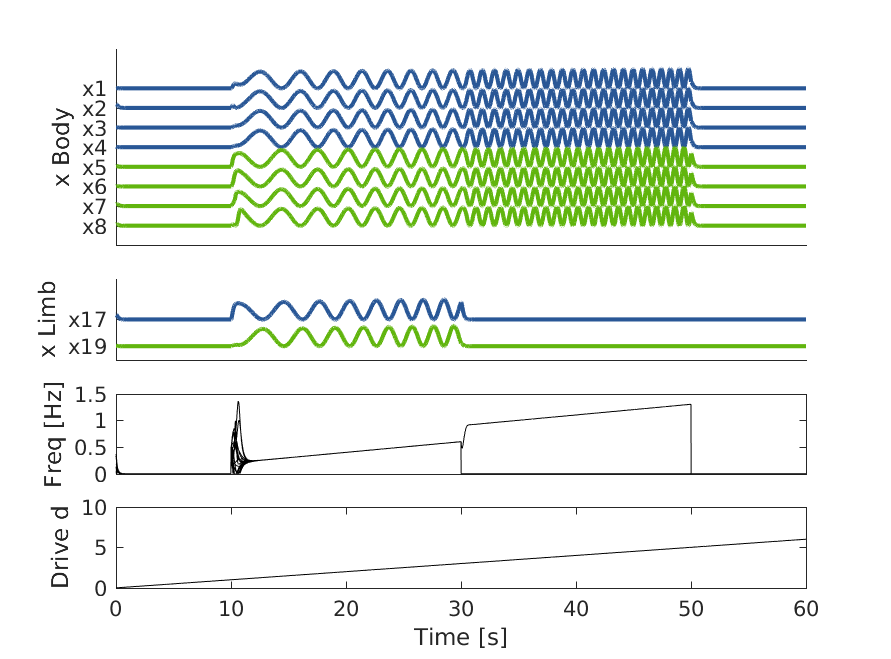
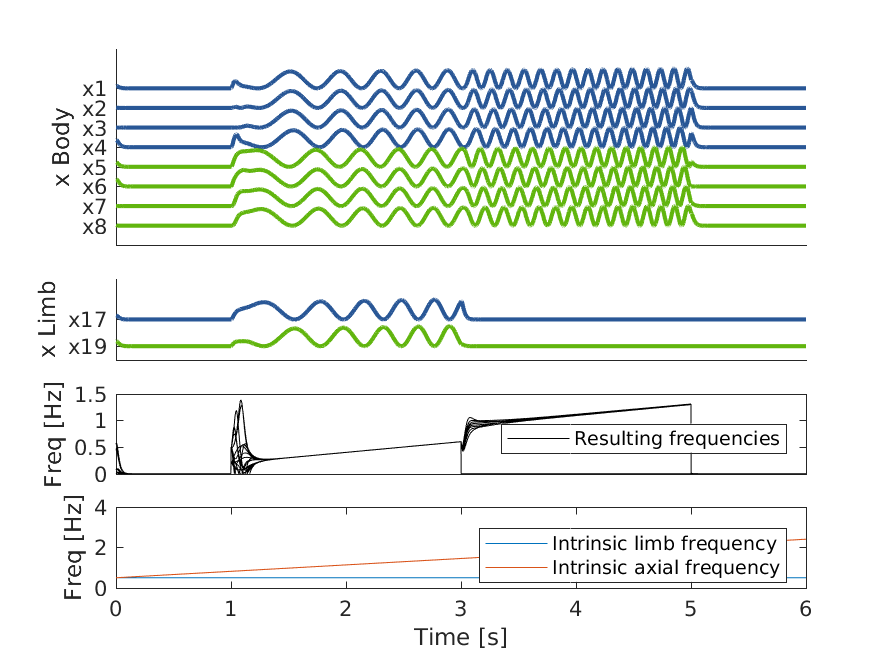
Finished most plots

diff --git a/Lab report.tex b/Lab report.tex
@@ -12,13 +12,16 @@
 \usepackage[colorlinks=true, allcolors=blue]{hyperref}
 \usepackage[skip=3pt, format=plain]{caption}
 \renewcommand\thesection{\Alph{section}}
+%\usepackage{multicol}
 
 \title{Computational Motor Control - Lab 5}
 \subtitle{Modelling the salamander CPG with phase oscillators}
 \author{Florian Kaufmann \and Octave Martin \and Matthias Tsai}
 
 \begin{document}
-\twocolumn
+
+{\twocolumn
+
 \setlength{\columnsep}{0.5cm}
 \maketitle
 
@@ -91,7 +94,7 @@ The simulation in walking mode was repeated, but applying the perturbation on a 
 
 \begin{figure}[h]
 	\includegraphics[width=0.5\textwidth]{fig/figure7b_limbphase.png}
-	\caption{Simulations of the salamander CPG model applying a perturbation on an upper limb oscillator starting at 10 seconds into the simulation with a linearly increasing perturbation variance from 0 to 0.9.}
+	\caption{Simulation of the salamander CPG model applying a perturbation on an upper limb oscillator starting at 10 seconds into the simulation with a linearly increasing perturbation variance from 0 to 0.9.}
 	\label{fig:7b-limbphase}
 \end{figure}
 
@@ -127,26 +130,52 @@ To also visualize the individual role of the coupling strength of the limbs on t
 
 \begin{figure}[!h]
 	\includegraphics[width=0.5\textwidth]{fig/figure7c_limbaxial-coupling.png}
-	\vspace*{-1.5cm}
+	\vspace*{-1.5 cm}
 	\caption{Simulations of the salamander CPG model applying a constant drive of 2 to achieve walking with three different values for the coupling strength of the limbs on the axial oscillators (0, 1 and 4).}
 	\label{fig:7c-limbaxialcoupling}
 \end{figure}
+
+\begin{figure}[!h]
+	\includegraphics[width=0.5\textwidth]{fig/figure7c_limb-coupling.png}
+	\vspace*{-1.5 cm}
+	\caption{Simulations of the salamander CPG model applying a constant drive of 2 to achieve walking with two different values for the coupling strength between the limb oscillators (0 or 1).}
+	\label{fig:7c-limbcoupling}
+\end{figure}
+
+} %twoclumn
+
+
+\begin{figure*}[!b]
+	\includegraphics[width=\textwidth]{fig/figure7c_axialfreq.png}
+	\caption{Simulations of the salamander CPG model applying a constant drive of 2 to achieve walking with two different values for the coupling strength between the limb oscillators (0 or 1).}
+	\label{fig:7c-axialfreq}
+\end{figure}
+
+%\begin{multicols}{2}
+
+
 
 {\setlength{\parindent}{0 cm}
 of 1 they produce a messy motion between swimming and walking. However, with a strong coupling strength of 4 the limbs can finally exert a sufficient influence to force the axial oscillator to tune into a clean walking motion.
 }
 
-Finally, the limb to limb coupling was investigated using a constant drive of 2 to produce walking ( see figure \ref{fig:7c-limbcoupling}). This showed that the anti-phase dynamic between upper and lower limbs was lost in case of a low or non-existent limb coupling. Indeed the phase difference between the upper and lower limb was completely random and only depended on the initialization values of the system.
+The limb to limb coupling was investigated in a similar way, also using a constant drive of 2 to produce walking (see figure \ref{fig:7c-limbcoupling}). This showed that the anti-phase dynamic between upper and lower limbs was lost in case of a low or non-existent limb coupling. Indeed the phase difference between the upper and lower limb was completely random and only depended on the initialization values of the system.
 
-\begin{figure}[!h]
-	\includegraphics[width=0.5\textwidth]{fig/figure7c_limb-coupling.png}
-	\vspace*{-1.5cm}
-	\caption{Simulations of the salamander CPG model applying a constant drive of 2 to achieve walking with two different values for the coupling strength between the limb oscillators (0 or 1).}
-	\label{fig:7c-limbcoupling}
+The next step of this section is dedicated to investigating the role of the intrinsic frequencies associated to the limb and axial oscillators. This was studied by simulating the whole system and linearly increasing the intrinsic frequency of the axial oscillators while keeping the limbs' intrinsic frequencies constant (see figure \ref{fig:7c-axialfreq}). One can observe that 2 seconds into the simulation the intrinsic frequency of the axial oscillators has already rose so much that the coupling with the limb oscillators can't contain it any more and the synchronization is lost. This is leads to a turbulent oscillation of the axial oscillators until the intrinsic axial frequency has risen to the point, at which it can seemingly decouple from the limb oscillation and the swimming dynamic starts to dominate the motion of the axial oscillators. This takeover of the intrinsic swimming motion kicks in around 4 seconds into the simulation. 
+
+In a last step the axial contralateral coupling was also modulated. Until yet the whole analysis had \newpage only taken place on the left half of the salamander model, but the coupling between the left and right axial oscillators also plays a relevant role. If assigned to a significant value, for instance 1, this coupling strength will assure that contralateral axial oscillators should be in anti-phase. However, if it this set to zero this is no longer true as was shown by simulation using a linearly decreasing drive from 5 to 0 in order to initialize the system in swimming mode and then transit to walking (see figure \ref{fig:7c-leftright}). One can observe that in this simulation the axial oscillators have a random phase difference that depends on the initial conditions while the model is in swimming mode. However, when the drive reaches a value of 3 and the system tunes into walking mode, the intrinsic phase difference of the limbs oscillators forces contralateral limbs to be in antiphase and this dynamic is transmitted to the axial oscillators through the limb to axial oscillators coupling. This results into the contralateral axial oscillators to also assume an antipahse dynamic in synchrony with the limb oscillators.
+
+\begin{figure*}[!b]
+	\includegraphics[width=\textwidth]{fig/figure7c_left-right-coupling.png}
+	\caption{Simulation of the salamander CPG model applying a linearly decreasing drive from 5 to 0 in order to initialize the system in swimming mode and then transit into walking. The contralateral axial oscillator coupling strength is equal to zero.}
+	\label{fig:7c-leftright}
 \end{figure}
+
 
 \section{Discussion of the model}
 
 \section{Extensions and alternatives}
+
+%\end{multicols}
 
 \end{document}

diff --git a/plot_all_oscillators.m b/plot_all_oscillators.m
@@ -1,0 +1,96 @@
+function plot_all_oscillators(times, x, dtheta, drives, sigma)
+% plot_salam_cpg(times, x, dtheta, drives)
+%
+% Plot the oscillator outputs and instantaneous frequencies of a model of
+% the salamander CPG, as generated by the function 'salam_cpg_osc'.
+%
+% Inputs:
+%   times   A vector of times defining the integration steps (e.g. 0:0.01:10)
+%   x       A matrix of the oscillators' outputs (rows and columns as for r)
+%   dtheta  A matrix of the oscillators' instantaneous frequencies, in rad/s
+%   drives  A vector of same size as times, giving the drive level for the
+%           corresponding time. Can also be a scalar (for constant drive).
+
+  % Make sure we have a column vector of drives
+  if length(drives) == 1
+    drives = ones(length(times), 1) * drives;
+  else
+    drives = drives(:); % indexing with (:) ensures we have a column vector
+  end
+
+  nrsubplots = 4;
+  
+  % Make figure with given title
+  FigHandle = figure('name', 'Salamander CPG output');
+  clf;
+  
+  % Colors from Tango palette
+  blue = [0.16 0.34 0.59];
+  green = [0.38 0.71 0.055];
+  violett = [153/255 0 204/255];
+  orange = [230/255 138/255 0];
+  n_segments = 16;                     % 8 axial segments
+  girdles = [1 5];                    % Forelimbs project to segments 1-4, hind limbs to segments 5-end
+  
+  % Indices for trunk and tail oscillators on left side
+  trunk = 1:girdles(2) - 1;
+  tail = girdles(2):n_segments;
+  
+
+  % First subplot: axial oscillations
+  % Using two rows to make it twice the height of the other plots
+  subplot(nrsubplots, 1, [1 2]);
+
+  
+  % Plotting trunk and tail oscillations separately, to have different colors:
+  hold on;
+  p1 = plot(times, x(:, 1) +8*3, 'color', blue, 'linewidth', 2);
+  p2 = plot(times, x(:, 1+8) +8*3, 'color', violett, 'linewidth', 2);
+  plot(times, x(:, 2) +7*3, 'color', blue, 'linewidth', 2);
+  plot(times, x(:, 2+8) +7*3, 'color', violett, 'linewidth', 2);
+  plot(times, x(:, 3) +6*3, 'color', blue, 'linewidth', 2);
+  plot(times, x(:, 3+8) +6*3, 'color', violett, 'linewidth', 2);
+  plot(times, x(:, 4) +5*3, 'color', blue, 'linewidth', 2);
+  plot(times, x(:, 4+8) +5*3, 'color', violett, 'linewidth', 2);
+  p3 = plot(times, x(:, 5) + 4*3, 'color', green, 'linewidth', 2);
+  p4 = plot(times, x(:, 5+8) + 4*3, 'color', orange, 'linewidth', 2);
+  plot(times, x(:, 6) + 3*3, 'color', green, 'linewidth', 2);
+  plot(times, x(:, 6+8) + 3*3, 'color', orange, 'linewidth', 2);
+  plot(times, x(:, 7) + 2*3, 'color', green, 'linewidth', 2);
+  plot(times, x(:, 7+8) + 2*3, 'color', orange, 'linewidth', 2);
+  plot(times, x(:, 8) +3, 'color', green, 'linewidth', 2);
+  plot(times, x(:, 8+8) + 3, 'color', orange, 'linewidth', 2);
+  hold off;
+  set(gca,'ytick',[], 'xtick', []);
+  ylabel('x Body');
+  ylim([0.5 30]);
+  legend([p1 p2 p3 p4], 'Upper left axial oscillators','Upper right axial oscillators','Lower left axial oscillators','Lower right axial oscillators');
+
+
+  % Limb oscillations
+  subplot(nrsubplots, 1, 3);
+  hold on;
+  LF = 2 * n_segments + 1; % left forelimb
+  LH = 2 * n_segments + 3; % left hind limb
+  plot(times, x(:, 17) + 6, 'color', blue, 'linewidth', 2);
+  plot(times, x(:, 18) + 6, 'color', violett, 'linewidth', 2);
+  plot(times, x(:, 19) + 2, 'color', green, 'linewidth', 2)  
+  plot(times, x(:, 20) + 2, 'color', orange, 'linewidth', 2);
+  legend('Upper left limb','Upper right limb','Lower left limb','Lower right limb');
+  hold off;
+
+  set(gca,'ytick',[], 'xtick', []);
+  ylabel('x Limb');
+  ylim([0.5 10]);
+  
+  
+  % Drive
+  subplot(nrsubplots, 1, 4);
+  plot(times, drives, 'color', 'black');
+  ylabel('Drive d');  
+  xlabel('Time [s]');
+  
+  
+  print -dpng salam_all_cpg.png
+  
+end

diff --git a/plot_saturation_function.m b/plot_saturation_function.m
@@ -4,16 +4,27 @@ function plot_saturation_function
 % to use the same values as in salam_cpg_oscil
 
 dr=[0: 0.01: 6];
+% [nu_axis, R_axis] = saturation_function(dr, ...
+%     1, 5, ...         % d_low, d_high
+%     0.2, 0.3, ...     % c_nu_1, c_nu_0
+%     0.065, 1.196, ... % c_R_1, c_R_0
+%     0, 0);            % nu_sat, R_sat
+% 
+% [nu_limbs, R_limbs] = saturation_function(dr, ...
+%     1, 3, ...         % d_low, d_high
+%     0.2, 0, ...       % c_nu_1, c_nu_0
+%     0.131, 1.131, ... % c_R_1, c_R_0
+%     0, 0);    
 [nu_axis, R_axis] = saturation_function(dr, ...
-    1, 5, ...         % d_low, d_high
-    0.2, 0.3, ...     % c_nu_1, c_nu_0
-    0.065, 1.196, ... % c_R_1, c_R_0
+    0, 6, ...         % d_low, d_high
+    0.4, 0.5, ...     % c_nu_1, c_nu_0
+    0, 1, ... % c_R_1, c_R_0
     0, 0);            % nu_sat, R_sat
 
 [nu_limbs, R_limbs] = saturation_function(dr, ...
-    1, 3, ...         % d_low, d_high
-    0.2, 0, ...       % c_nu_1, c_nu_0
-    0.131, 1.131, ... % c_R_1, c_R_0
+    0, 6, ...         % d_low, d_high
+    0, 0.5, ...       % c_nu_1, c_nu_0
+    0, 1, ... % c_R_1, c_R_0
     0, 0);            % nu_sat, R_sat
 
 % Make figure with given title
@@ -48,6 +59,3 @@ non_saturated = d_low <= d & d <= d_high;
 % Calculate non saturated values
 nu(non_saturated) = c_nu_1 * d(non_saturated) + c_nu_0;
 R(non_saturated) = c_R_1 * d(non_saturated) + c_R_0;
-
-
-

diff --git a/salam_cpg_osc.m b/salam_cpg_osc.m
@@ -51,7 +51,7 @@ a = ones(1, n_osc) * 20;            % Convergence factor
 % SET THE COUPLING WEIGHTS OF THE CPG
 w_axis_downwards = 0.5;              % from axial oscillators to caudal neighbors
 w_axis_upwards = 0.5;                % from axial oscillators to rostral neighbors
-w_axis_contralateral = 1;          % from axial oscillator to neighbor on other side
+w_axis_contralateral = 0;          % from axial oscillator to neighbor on other side
 w_limb_axis = 4;                   % from limb to axial oscillators
 w_limb_limb = 1;                   % between two limb oscillators
 
@@ -123,6 +123,17 @@ PHI = zeros(n_osc);
     0.2, 0, ...       % c_nu_1, c_nu_0
     0.131, 1.131, ... % c_R_1, c_R_0
     0, 0);            % nu_sat, R_sat
+% [nu_axis, R_axis] = saturation_function(drives, ...
+%     0, 6, ...         % d_low, d_high
+%     0.4, 0.5, ...     % c_nu_1, c_nu_0
+%     0, 1, ... % c_R_1, c_R_0
+%     0, 0);            % nu_sat, R_sat
+% 
+% [nu_limbs, R_limbs] = saturation_function(drives, ...
+%     0, 6, ...         % d_low, d_high
+%     0, 0.5, ...       % c_nu_1, c_nu_0
+%     0, 1, ... % c_R_1, c_R_0
+%     0, 0);            % nu_sat, R_sat
 
 % nu and R are matrices with one row per timestep, one column per oscillator
 nu(:, axis_indices) = repmat(nu_axis, 1, length(axis_indices));

diff --git a/plot_salam_cpg.m b/plot_salam_cpg.m
@@ -80,19 +80,27 @@ function plot_salam_cpg(times, x, dtheta, drives, sigma)
   freqs = dtheta / (2 * pi); % /2pi to convert rad/s to Hz
   plot(times, freqs, 'color', 'black');
   ylabel('Freq [Hz]');
+  legend('Resulting frequencies','Location','southeast');
   set(gca, 'xtick', []);
   ylim([0 1.5]);
   
   
   % Drive
+%   subplot(nrsubplots, 1, 5);
+%   plot(times, drives, 'color', 'black');
+%   ylabel('Drive d');  
+%   if plotsigma 
+%       set(gca, 'xtick', []);
+%   else
+%       xlabel('Time [s]');
+%   end
+  
+  % intrinsic frequencies
   subplot(nrsubplots, 1, 5);
-  plot(times, drives, 'color', 'black');
-  ylabel('Drive d');  
-  if plotsigma 
-      set(gca, 'xtick', []);
-  else
-      xlabel('Time [s]');
-  end
+  plot([0,6], [0.5,0.5;0.5,0.4*6]);
+  legend('Intrinsic limb frequency','Intrinsic axial frequency','Location','southeast');
+  ylabel('Freq [Hz]');
+  xlabel('Time [s]');
   
   % Gaussian noise sigma
   if plotsigma 
